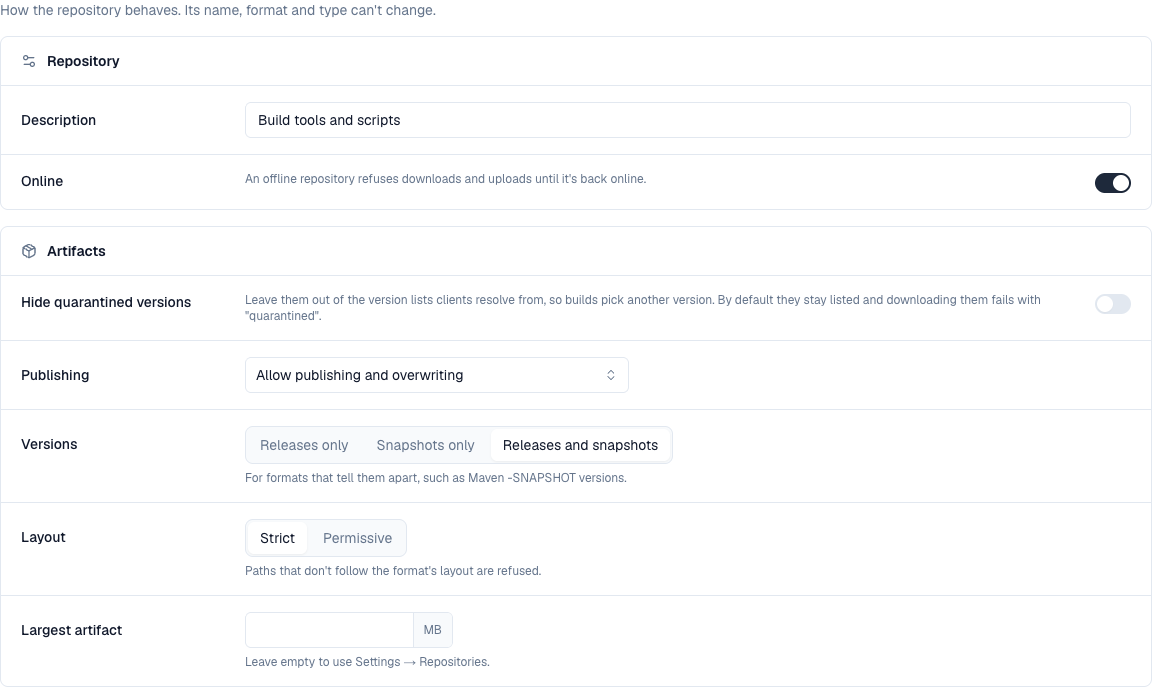
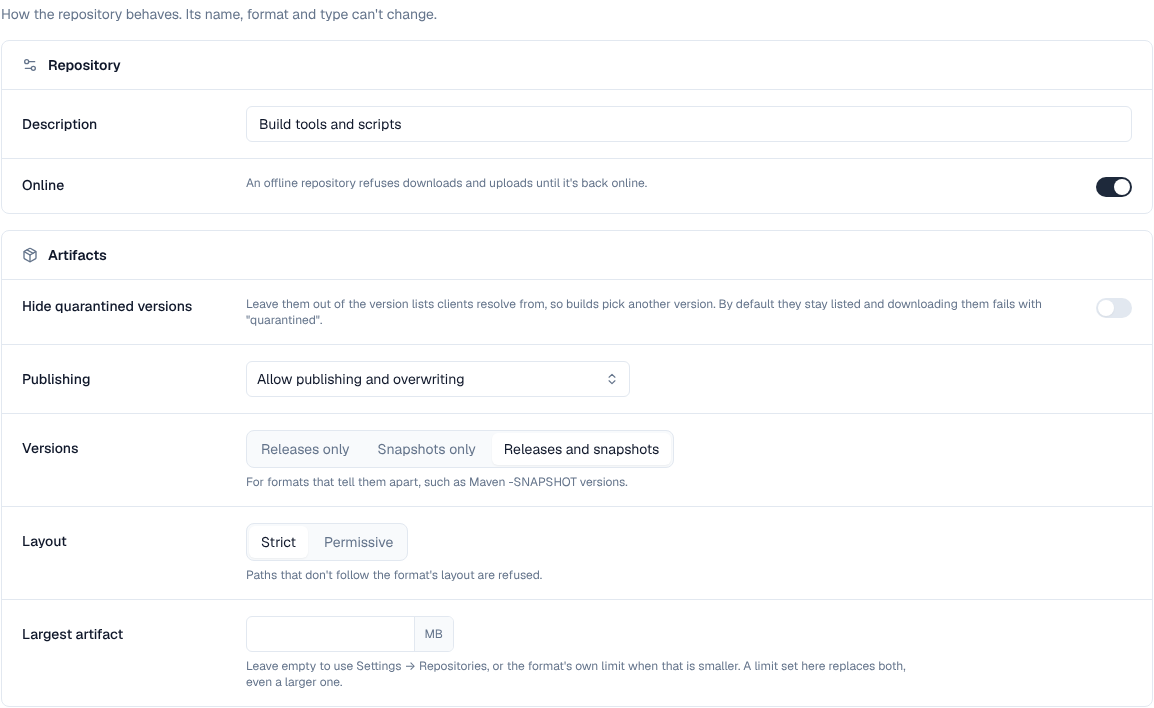
Depotex docs: how a repository's size limit combines with the format's (S11)
Depotex docs: how a repository's size limit combines with the format's

The Largest artifact row on the Spaces page said only that it overrides
Settings → Repositories. Left empty, a repository takes the installation's
limit or the format's own (Cargo, Composer) when that is smaller, and a
limit set there replaces both, even a larger one. Changelog line for that
and for format lists in pickers and filters following the API's order.

The repository-settings-tab.png screenshot still shows the old hint under
Largest artifact; it needs retaking from a running install.

Depotex docs: narrow the format-order changelog line, retake the repository settings shot

The changelog line said format lists in pickers and filters follow the
API's order, but only the lists built from the web app's format list
changed: the Browse format filter and the block-list, quarantine and
cleanup rule dialogs. The repository format picker, the Upstreams filter
and the Spaces page still sort their own way. The line now names the lists
that changed and the three formats that move.

repository-settings-tab.png showed the old Largest artifact hint; it is
retaken from a local install with fictional data (light theme, 1440px
viewport, the same crop), showing the new hint.

Claude-Session: https://claude.ai/code/session_01Sm7vZhvVkMFvFu7FBLwMY9

diff --git a/depotex/docs/changelog.html b/depotex/docs/changelog.html
@@ -39,7 +39,7 @@
 
       <article class="vc-doc">
       <h2 id="since-the-initial-release" class="text-2xl font-semibold mt-10 mb-4 scroll-mt-28">1. Since the initial release</h2>
-      <div class="tbl-wrap"><table><thead><tr><th>Date</th><th>Feature</th><th>Change</th></tr></thead><tbody><tr><td>2026-10-23</td><td>Browse</td><td>A version with several files, such as wheels and a source archive or a jar and its POM, has a File picker on its page that Download, the curl command and the checksums follow, and the AI tools' download link lists the version's files to choose from.</td></tr><tr><td>2026-10-22</td><td>Performance</td><td>Each server keeps spaces, repositories, roles, access grants and repository settings in memory and drops them as soon as they change on any server, so a download reads the database twice instead of eight times; READ_CACHE_ENABLED=false turns this off on a server.</td></tr><tr><td>2026-10-17</td><td>Plugins</td><td>Connect an AI agent in the profile menu has a Vibepack skill tab to download the agent skill and see how to use it, and plugin screens can offer a .zip from their package to download.</td></tr><tr><td>2026-10-17</td><td>Vibe artifacts</td><td>Enterprise: the vibepack skill connects an AI agent with the Depotex AI tools or a saved API token, asks for the project's name, status and other details before its first save, and offers screenshots, captured pages or mock-ups; its script saves a check-in from a terminal without an agent, asking the same questions step by step.</td></tr><tr><td>2026-10-14</td><td>Quarantine</td><td>Enterprise: quarantined versions can be blocked (kept, and refused from then on) or deleted and blocked, in their repository, their space or every space, for one version or every version of the name; repository admins get a Quarantine tab for their repository.</td></tr><tr><td>2026-10-14</td><td>Block list</td><td>Block-list rules now refuse uploads and proxy caching of the versions they match too, and rules made from quarantine also refuse their files' content under any name.</td></tr><tr><td>2026-10-14</td><td>Vibe artifacts</td><td>Enterprise: check-ins record what must keep working, the environment they need and whether their tests passed; the project page offers the last passing check-in to go back to, and milestones can be named or renamed from the Vibe browser.</td></tr><tr><td>2026-10-14</td><td>Vibe artifacts</td><td>Enterprise: Settings can let pushes with secrets or hidden characters through as high findings, and download the typosquat check's popular-package list from an address you set, daily or on demand, falling back to the built-in list.</td></tr><tr><td>2026-10-14</td><td>Vibe artifacts</td><td>Enterprise: every push is checked: secrets and hidden characters in AI instruction files refuse it, and packages that don't exist or are new, open database rules, lockfile vulnerabilities and risky code show as findings on the check-in's new Findings tab.</td></tr><tr><td>2026-10-14</td><td>Vibe artifacts</td><td>Enterprise: AI coding tools can search, pull, compare and publish vibe projects through the Depotex AI tools (MCP); every publish answers with the check-in's link in the Vibe browser.</td></tr><tr><td>2026-10-14</td><td>Vibe artifacts</td><td>Enterprise: the Vibe browser searches projects, milestones, what changed and screenshot captions, with project and check-in pages, a timeline, a screenshot wall and a zip download of each check-in.</td></tr><tr><td>2026-10-13</td><td>Vibe artifacts</td><td>Enterprise: vibe artifact repositories hold projects pushed as numbered check-ins with files and screenshots; every push answers with a link to the check-in in the Vibe browser.</td></tr><tr><td>2026-10-13</td><td>Vibe artifacts</td><td>Enterprise: turn on vibe artifacts in Settings → Repositories → Vibe artifacts to add the Vibe browser to the menu, beside Browse.</td></tr></tbody></table></div>
+      <div class="tbl-wrap"><table><thead><tr><th>Date</th><th>Feature</th><th>Change</th></tr></thead><tbody><tr><td>2026-10-23</td><td>Repositories</td><td>The Browse format filter and the block-list, quarantine and cleanup rule dialogs list formats in the order the API does (Terraform, Composer and Hugging Face move), and a repository's Largest artifact setting explains that, left empty, the format's own limit applies when it is smaller than the installation's, and that a limit set there replaces both.</td></tr><tr><td>2026-10-23</td><td>Browse</td><td>A version with several files, such as wheels and a source archive or a jar and its POM, has a File picker on its page that Download, the curl command and the checksums follow, and the AI tools' download link lists the version's files to choose from.</td></tr><tr><td>2026-10-22</td><td>Performance</td><td>Each server keeps spaces, repositories, roles, access grants and repository settings in memory and drops them as soon as they change on any server, so a download reads the database twice instead of eight times; READ_CACHE_ENABLED=false turns this off on a server.</td></tr><tr><td>2026-10-17</td><td>Plugins</td><td>Connect an AI agent in the profile menu has a Vibepack skill tab to download the agent skill and see how to use it, and plugin screens can offer a .zip from their package to download.</td></tr><tr><td>2026-10-17</td><td>Vibe artifacts</td><td>Enterprise: the vibepack skill connects an AI agent with the Depotex AI tools or a saved API token, asks for the project's name, status and other details before its first save, and offers screenshots, captured pages or mock-ups; its script saves a check-in from a terminal without an agent, asking the same questions step by step.</td></tr><tr><td>2026-10-14</td><td>Quarantine</td><td>Enterprise: quarantined versions can be blocked (kept, and refused from then on) or deleted and blocked, in their repository, their space or every space, for one version or every version of the name; repository admins get a Quarantine tab for their repository.</td></tr><tr><td>2026-10-14</td><td>Block list</td><td>Block-list rules now refuse uploads and proxy caching of the versions they match too, and rules made from quarantine also refuse their files' content under any name.</td></tr><tr><td>2026-10-14</td><td>Vibe artifacts</td><td>Enterprise: check-ins record what must keep working, the environment they need and whether their tests passed; the project page offers the last passing check-in to go back to, and milestones can be named or renamed from the Vibe browser.</td></tr><tr><td>2026-10-14</td><td>Vibe artifacts</td><td>Enterprise: Settings can let pushes with secrets or hidden characters through as high findings, and download the typosquat check's popular-package list from an address you set, daily or on demand, falling back to the built-in list.</td></tr><tr><td>2026-10-14</td><td>Vibe artifacts</td><td>Enterprise: every push is checked: secrets and hidden characters in AI instruction files refuse it, and packages that don't exist or are new, open database rules, lockfile vulnerabilities and risky code show as findings on the check-in's new Findings tab.</td></tr><tr><td>2026-10-14</td><td>Vibe artifacts</td><td>Enterprise: AI coding tools can search, pull, compare and publish vibe projects through the Depotex AI tools (MCP); every publish answers with the check-in's link in the Vibe browser.</td></tr><tr><td>2026-10-14</td><td>Vibe artifacts</td><td>Enterprise: the Vibe browser searches projects, milestones, what changed and screenshot captions, with project and check-in pages, a timeline, a screenshot wall and a zip download of each check-in.</td></tr><tr><td>2026-10-13</td><td>Vibe artifacts</td><td>Enterprise: vibe artifact repositories hold projects pushed as numbered check-ins with files and screenshots; every push answers with a link to the check-in in the Vibe browser.</td></tr><tr><td>2026-10-13</td><td>Vibe artifacts</td><td>Enterprise: turn on vibe artifacts in Settings → Repositories → Vibe artifacts to add the Vibe browser to the menu, beside Browse.</td></tr></tbody></table></div>
       <h2 id="initial-release" class="text-2xl font-semibold mt-10 mb-4 scroll-mt-28">2. Initial release</h2>
       <p class="text-muted mb-4">The first release of Depotex: a self-hosted artifact repository that runs on a single server or as a cluster, with the same features either way. Later releases are listed above this one as they ship.</p>
       <div class="tbl-wrap"><table><thead><tr><th>Area</th><th>What's included</th></tr></thead><tbody><tr><td>Package formats</td><td><a href="maven.html" class="text-cta hover:underline">Maven</a>, <a href="npm.html" class="text-cta hover:underline">npm</a>, <a href="pypi.html" class="text-cta hover:underline">PyPI</a>, <a href="docker.html" class="text-cta hover:underline">Docker and OCI images</a>, <a href="helm.html" class="text-cta hover:underline">Helm</a>, <a href="go.html" class="text-cta hover:underline">Go</a>, <a href="nuget.html" class="text-cta hover:underline">NuGet</a>, <a href="cargo.html" class="text-cta hover:underline">Cargo</a>, <a href="apt.html" class="text-cta hover:underline">APT</a>, <a href="yum.html" class="text-cta hover:underline">YUM</a>, <a href="terraform.html" class="text-cta hover:underline">Terraform and OpenTofu</a>, <a href="huggingface.html" class="text-cta hover:underline">Hugging Face</a>, <a href="git-lfs.html" class="text-cta hover:underline">Git LFS</a>, <a href="composer.html" class="text-cta hover:underline">Composer</a> and <a href="raw.html" class="text-cta hover:underline">raw files</a>, each working with its standard client for downloading and publishing.</td></tr><tr><td>Repositories</td><td>Hosted repositories; <a href="upstreams.html" class="text-cta hover:underline">proxy repositories</a> that cache Maven Central, npm, PyPI, Docker Hub, internal mirrors or another Depotex; <a href="repository-groups.html" class="text-cta hover:underline">group repositories</a> that combine them behind one address, with a universal address per format in every space. Write policies, upload rules, cleanup policies, storage quotas and uploads from the browser. Deleted repositories can be restored for 7 days. New spaces start with a default storage quota (50 GB, set in Settings → Repositories).</td></tr><tr><td>Spaces and access</td><td><a href="spaces.html" class="text-cta hover:underline">Spaces</a> that are private, internal or public, with Viewer, Developer, Maintainer and Owner roles for people, groups and service accounts, per-repository access and content selectors.</td></tr><tr><td>Browsing and search</td><td>The <a href="browse.html" class="text-cta hover:underline">artifact browser</a>: search across every repository you can see, filters, a tree per repository, and a page per version with install commands, files, checksums, dependencies and security status. <a href="search.html" class="text-cta hover:underline">Search</a> from the top of every page (Ctrl+K or /) for the spaces, repositories, artifacts, settings, people and groups you can open.</td></tr><tr><td>SBOMs and vulnerabilities</td><td><a href="sbom.html" class="text-cta hover:underline">SBOMs</a> in SPDX and CycloneDX, stored with artifacts, uploaded for applications from CI, or made by Depotex from package metadata or a lockfile the package ships, for Maven (with parent POMs), npm, PyPI, Go, Cargo, NuGet and Composer, and read from container images with Syft (Pro); operating system packages checked per distribution release, including those in APT and YUM repositories once their release is set; coverage scores that say how much of each version could be checked (Pro); first-seen dates, "new since upload" and a fix-it checklist with the upgrade command; a Security tab that sums up a version (vulnerabilities, coverage or why there is none, re-check), then cards for each SBOM with its downloads and exports; re-checks that alert instead of quarantining, or quarantine after a grace period; malformed SBOMs listed as unreadable instead of quarantined; completeness scores, each vulnerability explained in place (its weakness by name, the CVSS vector in plain words, the affected versions of every release line and the fix for yours, its description), component search everywhere, vulnerability data from OSV (asked online, or downloaded and matched inside the installation, or uploaded for installations with no internet), scanner plugins whose findings merge with OSV's and count in policies, SBOMs packed inside wheels, NuGet packages and Java archives, re-check and re-inspect on request for a version, a repository or everything, VEX assessments, AI BOMs for models and datasets, and export and sharing.</td></tr><tr><td>Supply-chain controls</td><td><a href="quarantine.html" class="text-cta hover:underline">Quarantine</a> rules and manual holds, the <a href="blocklist.html" class="text-cta hover:underline">block list</a>, <a href="integrity.html" class="text-cta hover:underline">integrity checks</a> of every stored file, and automatic quarantine of unsafe package metadata.</td></tr><tr><td>Policies, automation and plugins</td><td><a href="policies.html" class="text-cta hover:underline">Policies</a> that block, warn about or adjust actions, from templates or your own conditions, with dry runs, exemptions and compliance scans; <a href="automation.html" class="text-cta hover:underline">automation</a> rules that send alerts, webhooks and emails on <a href="events.html" class="text-cta hover:underline">events</a>; signed <a href="plugins.html" class="text-cta hover:underline">plugins</a>, including MCP servers for AI applications and an API explorer.</td></tr><tr><td>Users and sign-in</td><td><a href="users-and-directories.html" class="text-cta hover:underline">Directories</a>: Local, LDAP, Active Directory, Microsoft Entra ID, Google Workspace and SCIM; <a href="single-sign-on.html" class="text-cta hover:underline">single sign-on</a> with OpenID Connect and SAML; <a href="profile.html" class="text-cta hover:underline">your profile settings</a> (avatar, theme and language: English or German, notifications, password, sessions, tokens and connected apps); invitations and password resets by email, profile pictures in every list of people (<span class="font-mono text-sm break-words">profiles:view</span>), sessions and timeouts, CAPTCHA, lockout after failed attempts, anonymous access, and GDPR data export and anonymization.</td></tr><tr><td>Applications and tokens</td><td><a href="oauth-applications.html" class="text-cta hover:underline">OAuth applications</a> with consent, device sign-in for command-line tools, service accounts and workload identity for CI; <a href="api-tokens.html" class="text-cta hover:underline">API tokens</a> with permissions, templates to start from, expiry, IP allowlists and rotation; <a href="rate-limits.html" class="text-cta hover:underline">rate limits</a>, overrides and download quotas.</td></tr><tr><td>Notifications</td><td>In-app <a href="alerts.html" class="text-cta hover:underline">alerts</a> with the bell, a notifications page and preferences; <a href="email.html" class="text-cta hover:underline">email</a> through SMTP providers or the Amazon SES API with an IAM role; <a href="branding-and-banners.html" class="text-cta hover:underline">banners</a> for announcements, with an optional title.</td></tr><tr><td>Administration</td><td>The <a href="dashboard.html" class="text-cta hover:underline">dashboard</a>, the <a href="system-check.html" class="text-cta hover:underline">system check</a> and cluster health, <a href="scheduler.html" class="text-cta hover:underline">scheduled jobs</a>, log levels, log files and exports, the <a href="logging-and-audit.html" class="text-cta hover:underline">audit log</a>, profiling, Prometheus <a href="monitoring.html" class="text-cta hover:underline">metrics</a>, <a href="branding-and-banners.html" class="text-cta hover:underline">branding</a> per theme and your own help links.</td></tr><tr><td>Backups and recovery</td><td><a href="backups.html" class="text-cta hover:underline">Backups</a> on a schedule or on demand, encrypted, kept on a separate target, checked and test-restored; restore into a new installation from the setup wizard; <a href="recovery.html" class="text-cta hover:underline">recovery mode</a> when an installed server can't start.</td></tr><tr><td>Installation</td><td>A <a href="getting-started.html" class="text-cta hover:underline">setup wizard</a> or an unattended setup file; <a href="kubernetes.html" class="text-cta hover:underline">container images and a Helm chart</a>; a <a href="deployment-modes.html" class="text-cta hover:underline">single server or a cluster</a> with Redis as one server, Sentinel or Redis Cluster; <a href="storage.html" class="text-cta hover:underline">storage</a> on a local disk, S3 (with IAM roles), MinIO or Azure Blob.</td></tr></tbody></table></div>

diff --git a/depotex/docs/spaces.html b/depotex/docs/spaces.html
@@ -159,7 +159,7 @@ curl -fs https://depotex.example.com/repository/my-space/files/tools/app.zip.sha
         </div>
         <figcaption class="text-xs text-muted mt-2">A repository's Settings tab: the Repository and Artifacts cards, with switches, choices and the largest artifact in MB</figcaption>
       </figure>
-      <div class="tbl-wrap"><table><thead><tr><th>Setting</th><th>Choices</th></tr></thead><tbody><tr><td>Online</td><td>An offline repository refuses downloads and uploads.</td></tr><tr><td>Publishing (hosted)</td><td>Allow publishing and overwriting; allow publishing but never overwrite a file; or read-only. In a publish-once repository, uploading a file that's already there is refused as a conflict (409), which <span class="font-mono text-sm break-words">npm publish</span> and <span class="font-mono text-sm break-words">dotnet nuget push --skip-duplicate</span> expect.</td></tr><tr><td>Delete mode (NuGet, hosted)</td><td>Whether <span class="font-mono text-sm break-words">dotnet nuget delete</span> unlists the version (the default, as nuget.org does) or deletes it. See <a href="nuget.html#unlist-or-delete-a-version" class="text-cta hover:underline">NuGet repositories</a>.</td></tr><tr><td>Versions</td><td>Releases only, snapshots only, or both (for formats that tell them apart, such as Maven -SNAPSHOT).</td></tr><tr><td>Layout</td><td>Strict refuses paths that don't follow the format's layout; permissive accepts any path.</td></tr><tr><td>Largest artifact</td><td>Overrides Settings → Repositories → Defaults and network for this repository.</td></tr><tr><td>Hide quarantined versions</td><td>Leave <a href="quarantine.html" class="text-cta hover:underline">quarantined</a> versions out of the version lists clients resolve from; by default they stay listed and downloading them fails with "quarantined".</td></tr><tr><td>Distribution release (APT, YUM)</td><td>Which release the packages belong to, such as <span class="font-mono text-sm break-words">debian-12</span>, <span class="font-mono text-sm break-words">ubuntu-22.04</span>, <span class="font-mono text-sm break-words">rocky-9</span> or <span class="font-mono text-sm break-words">almalinux-9</span>, so their vulnerabilities are looked up in it (<a href="sbom.html#coverage-how-much-depotex-could-see" class="text-cta hover:underline">SBOMs</a>, Pro). Leave it empty for a repository that mixes releases: its packages then aren't checked. Changing it checks the packages again.</td></tr><tr><td>Proxy (proxy repositories)</td><td>Keep fetched files or pass them through; how long artifacts and metadata are served before asking the upstream again; how long "not found" is remembered; what to do when a checksum doesn't match; pause an upstream that keeps failing; serve cached files while the upstream is down.</td></tr></tbody></table></div>
+      <div class="tbl-wrap"><table><thead><tr><th>Setting</th><th>Choices</th></tr></thead><tbody><tr><td>Online</td><td>An offline repository refuses downloads and uploads.</td></tr><tr><td>Publishing (hosted)</td><td>Allow publishing and overwriting; allow publishing but never overwrite a file; or read-only. In a publish-once repository, uploading a file that's already there is refused as a conflict (409), which <span class="font-mono text-sm break-words">npm publish</span> and <span class="font-mono text-sm break-words">dotnet nuget push --skip-duplicate</span> expect.</td></tr><tr><td>Delete mode (NuGet, hosted)</td><td>Whether <span class="font-mono text-sm break-words">dotnet nuget delete</span> unlists the version (the default, as nuget.org does) or deletes it. See <a href="nuget.html#unlist-or-delete-a-version" class="text-cta hover:underline">NuGet repositories</a>.</td></tr><tr><td>Versions</td><td>Releases only, snapshots only, or both (for formats that tell them apart, such as Maven -SNAPSHOT).</td></tr><tr><td>Layout</td><td>Strict refuses paths that don't follow the format's layout; permissive accepts any path.</td></tr><tr><td>Largest artifact</td><td>Left empty, the repository takes the installation's limit (Settings → Repositories → Defaults and network), or the format's own when that is smaller (Cargo and Composer have one). A limit set here replaces both for this repository, even a larger one.</td></tr><tr><td>Hide quarantined versions</td><td>Leave <a href="quarantine.html" class="text-cta hover:underline">quarantined</a> versions out of the version lists clients resolve from; by default they stay listed and downloading them fails with "quarantined".</td></tr><tr><td>Distribution release (APT, YUM)</td><td>Which release the packages belong to, such as <span class="font-mono text-sm break-words">debian-12</span>, <span class="font-mono text-sm break-words">ubuntu-22.04</span>, <span class="font-mono text-sm break-words">rocky-9</span> or <span class="font-mono text-sm break-words">almalinux-9</span>, so their vulnerabilities are looked up in it (<a href="sbom.html#coverage-how-much-depotex-could-see" class="text-cta hover:underline">SBOMs</a>, Pro). Leave it empty for a repository that mixes releases: its packages then aren't checked. Changing it checks the packages again.</td></tr><tr><td>Proxy (proxy repositories)</td><td>Keep fetched files or pass them through; how long artifacts and metadata are served before asking the upstream again; how long "not found" is remembered; what to do when a checksum doesn't match; pause an upstream that keeps failing; serve cached files while the upstream is down.</td></tr></tbody></table></div>
       <div class="rounded-xl border border-border bg-surface/90 p-4 mb-6"><p class="text-sm text-muted">These settings are saved now and apply as each package format arrives.</p></div>
       <h2 id="repository-access" class="text-2xl font-semibold mt-10 mb-4 scroll-mt-28">11. Repository access</h2>
       <p class="text-muted mb-4">Space roles apply to every repository in the space: viewers browse and download, developers also publish, maintainers and owners also overwrite, delete and administer. A repository's <strong class="text-text">Access</strong> tab gives people more, on that repository only:</p>

diff --git a/depotex/_build/content_spaces.py b/depotex/_build/content_spaces.py
@@ -98,7 +98,7 @@ SPACES = [
                 ["Delete mode (NuGet, hosted)", "Whether `dotnet nuget delete` unlists the version (the default, as nuget.org does) or deletes it. See [NuGet repositories](nuget.html#unlist-or-delete-a-version)."],
                 ["Versions", "Releases only, snapshots only, or both (for formats that tell them apart, such as Maven -SNAPSHOT)."],
                 ["Layout", "Strict refuses paths that don't follow the format's layout; permissive accepts any path."],
-                ["Largest artifact", "Overrides Settings → Repositories → Defaults and network for this repository."],
+                ["Largest artifact", "Left empty, the repository takes the installation's limit (Settings → Repositories → Defaults and network), or the format's own when that is smaller (Cargo and Composer have one). A limit set here replaces both for this repository, even a larger one."],
                 ["Hide quarantined versions", "Leave [quarantined](quarantine.html) versions out of the version lists clients resolve from; by default they stay listed and downloading them fails with \"quarantined\"."],
                 ["Distribution release (APT, YUM)", "Which release the packages belong to, such as `debian-12`, `ubuntu-22.04`, `rocky-9` or `almalinux-9`, so their vulnerabilities are looked up in it ([SBOMs](sbom.html#coverage-how-much-depotex-could-see), Pro). Leave it empty for a repository that mixes releases: its packages then aren't checked. Changing it checks the packages again."],
                 ["Proxy (proxy repositories)", "Keep fetched files or pass them through; how long artifacts and metadata are served before asking the upstream again; how long \"not found\" is remembered; what to do when a checksum doesn't match; pause an upstream that keeps failing; serve cached files while the upstream is down."],

diff --git a/depotex/_build/content.py b/depotex/_build/content.py
@@ -43,6 +43,7 @@ PLACEHOLDER = NOTE("Placeholder page. Full documentation lands before the public
 # Releases after the initial one, newest first: (date, feature, one-sentence change).
 # Only changes people using or running Depotex notice; nothing internal.
 CHANGELOG = [
+    ("2026-10-23", "Repositories", "The Browse format filter and the block-list, quarantine and cleanup rule dialogs list formats in the order the API does (Terraform, Composer and Hugging Face move), and a repository's Largest artifact setting explains that, left empty, the format's own limit applies when it is smaller than the installation's, and that a limit set there replaces both."),
     ("2026-10-23", "Browse", "A version with several files, such as wheels and a source archive or a jar and its POM, has a File picker on its page that Download, the curl command and the checksums follow, and the AI tools' download link lists the version's files to choose from."),
     ("2026-10-22", "Performance", "Each server keeps spaces, repositories, roles, access grants and repository settings in memory and drops them as soon as they change on any server, so a download reads the database twice instead of eight times; READ_CACHE_ENABLED=false turns this off on a server."),
     ("2026-10-17", "Plugins", "Connect an AI agent in the profile menu has a Vibepack skill tab to download the agent skill and see how to use it, and plugin screens can offer a .zip from their package to download."),
